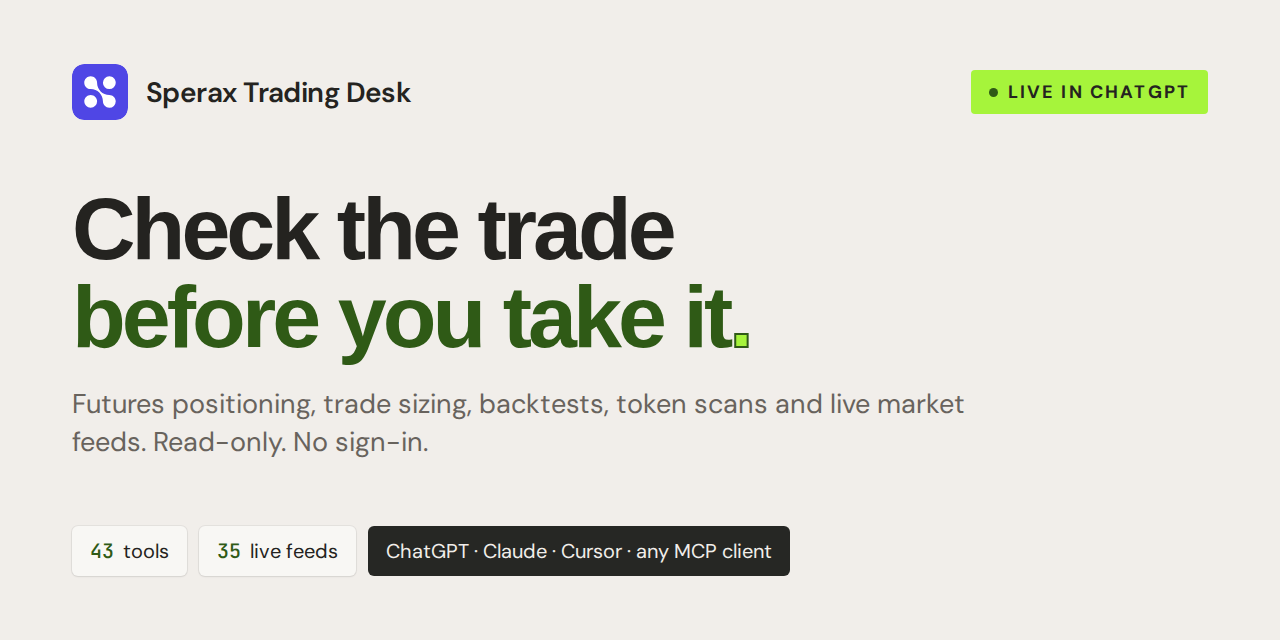
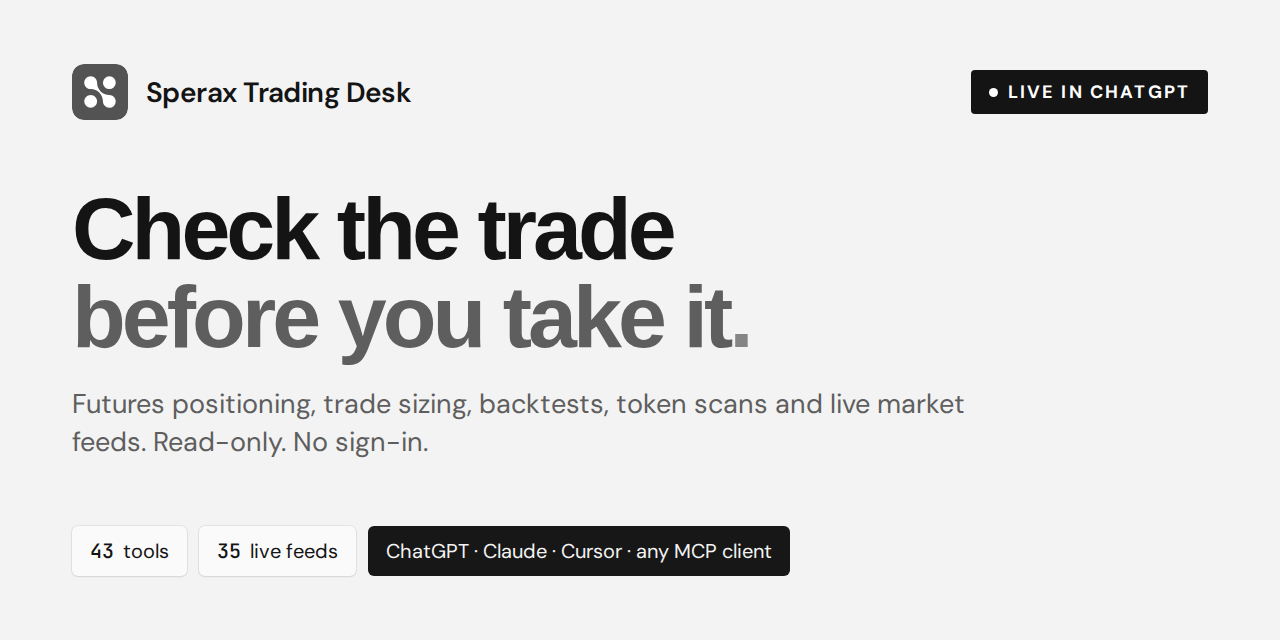
💄 style: switch the site to a monochrome palette
Replace the warm paper, green and lime tokens with a neutral gray scale,
render the hero panel as a charcoal gradient, desaturate the launch video
and brand marks, and regenerate the social cards in grayscale.

diff --git a/site/styles.css b/site/styles.css
@@ -25,28 +25,28 @@
 }
 
 :root {
-  --paper: #f1eeea;
-  --ink: #242320;
-  --ink-2: #3b3934;
-  --muted: #68635d;
-  --faint: #8d877f;
-  --line: #dcd7cf;
-  --line-soft: #e6e1da;
-  --lime: #a6f43b;
-  --lime-hover: #b6f75e;
-  --green: #2f5a16;
-  --green-2: #3a6b1a;
-  --panel: #e7e3dd;
-  --beige: #e5dfd3;
-  --green-tint: #e6ebdc;
-  --green-line: #d5dec6;
-  --card: #f8f7f4;
-  --card-2: #faf9f6;
-  --dark: #262724;
-  --lavender: #dcd6f7;
-  --red: #a4361f;
-  --shadow: 0 1px 2px rgb(36 35 32 / 6%), 0 8px 24px -12px rgb(36 35 32 / 18%);
-  --shadow-lift: 0 2px 4px rgb(36 35 32 / 6%), 0 18px 40px -18px rgb(36 35 32 / 30%);
+  --paper: #f3f3f3;
+  --ink: #141414;
+  --ink-2: #2e2e2e;
+  --muted: #5e5e5e;
+  --faint: #858585;
+  --line: #d8d8d8;
+  --line-soft: #e4e4e4;
+  --lime: #d6d6d6;
+  --lime-hover: #e2e2e2;
+  --green: #141414;
+  --green-2: #2e2e2e;
+  --panel: #e6e6e6;
+  --beige: #e1e1e1;
+  --green-tint: #eaeaea;
+  --green-line: #d4d4d4;
+  --card: #fafafa;
+  --card-2: #fcfcfc;
+  --dark: #171717;
+  --lavender: #c4c4c4;
+  --red: #141414;
+  --shadow: 0 1px 2px rgb(20 20 20 / 6%), 0 8px 24px -12px rgb(20 20 20 / 18%);
+  --shadow-lift: 0 2px 4px rgb(20 20 20 / 6%), 0 18px 40px -18px rgb(20 20 20 / 30%);
   --radius: 6px;
   --gutter: 56px;
   --sans: 'DM Sans', ui-sans-serif, system-ui, -apple-system, 'Segoe UI', Roboto, Arial, sans-serif;
@@ -110,7 +110,7 @@ pre {
 p code {
   padding: 1px 5px;
   border-radius: 3px;
-  background: rgb(36 35 32 / 6%);
+  background: rgb(20 20 20 / 6%);
   overflow-wrap: anywhere;
 }
 
@@ -167,17 +167,22 @@ ol {
 }
 
 ::selection {
-  background: var(--lime);
-  color: var(--ink);
+  background: var(--ink);
+  color: #fff;
 }
 
 .ic {
   flex: none;
 }
 
+.brand img,
+.card-id img,
+.facts img {
+  filter: grayscale(1);
+}
+
 .dot {
-  color: var(--lime);
-  -webkit-text-stroke: 0.6px var(--green);
+  color: var(--faint);
 }
 
 .wrap {
@@ -294,12 +299,12 @@ ol {
 }
 
 .btn-lime {
-  background: var(--lime);
-  color: var(--ink);
+  background: var(--ink);
+  color: #fff;
 }
 
 .btn-lime:hover {
-  background: var(--lime-hover);
+  background: var(--ink-2);
 }
 
 .btn-ink {
@@ -308,7 +313,7 @@ ol {
 }
 
 .btn-ink:hover {
-  background: #3a3934;
+  background: var(--ink-2);
 }
 
 .btn-white {
@@ -416,9 +421,9 @@ ol {
   overflow: hidden;
   border-radius: var(--radius);
   background:
-    radial-gradient(90% 120% at 100% 0%, rgb(166 244 59 / 18%) 0%, transparent 55%),
-    radial-gradient(70% 90% at 0% 100%, rgb(58 107 26 / 55%) 0%, transparent 60%),
-    linear-gradient(160deg, #233f12 0%, #1a2b10 55%, #161f10 100%);
+    radial-gradient(90% 120% at 100% 0%, rgb(255 255 255 / 10%) 0%, transparent 55%),
+    radial-gradient(70% 90% at 0% 100%, rgb(255 255 255 / 5%) 0%, transparent 60%),
+    linear-gradient(160deg, #262626 0%, #171717 55%, #0d0d0d 100%);
   color: #fff;
 }
 
@@ -457,8 +462,8 @@ ol {
   width: 8px;
   height: 8px;
   border-radius: 50%;
-  background: var(--lime);
-  box-shadow: 0 0 0 4px rgb(166 244 59 / 22%);
+  background: #fff;
+  box-shadow: 0 0 0 4px rgb(255 255 255 / 18%);
 }
 
 .hero-intro a:hover {
@@ -471,7 +476,7 @@ ol {
 }
 
 .hero .dot {
-  -webkit-text-stroke: 0;
+  color: rgb(255 255 255 / 45%);
 }
 
 .hero .lead {
@@ -479,11 +484,12 @@ ol {
 }
 
 .hero-media video {
+  filter: grayscale(1);
   width: 100%;
   height: auto;
   aspect-ratio: 16 / 9;
   border-radius: var(--radius);
-  background: #10180b;
+  background: #0a0a0a;
   box-shadow: 0 30px 60px -30px rgb(0 0 0 / 70%), 0 0 0 1px rgb(255 255 255 / 10%);
   object-fit: cover;
 }
@@ -611,8 +617,8 @@ ol {
 }
 
 .tile-2 {
-  background: var(--green);
-  color: var(--lime);
+  background: #5e5e5e;
+  color: #fff;
 }
 
 .tile-3 {
@@ -621,8 +627,9 @@ ol {
 }
 
 .tile-4 {
-  background: var(--lavender);
-  color: #3c2f86;
+  background: var(--card);
+  color: var(--ink);
+  box-shadow: inset 0 0 0 1px var(--line);
 }
 
 /* Section heads */
@@ -713,7 +720,7 @@ ol {
   gap: 12px;
   padding: 11px 11px;
   border-radius: 2px;
-  background: #eeece8;
+  background: #ededed;
   font-size: 12px;
 }
 
@@ -1122,15 +1129,15 @@ ol {
 }
 
 .seg-1 {
-  background: var(--green);
+  background: var(--ink);
 }
 
 .seg-2 {
-  background: var(--lime);
+  background: #8a8a8a;
 }
 
 .seg-3 {
-  background: var(--ink);
+  background: #c8c8c8;
 }
 
 .legend {
@@ -1167,7 +1174,7 @@ ol {
   position: relative;
   border-radius: 4px;
   background: var(--dark);
-  color: #e9e6df;
+  color: #e8e8e8;
 }
 
 .code pre {
@@ -1186,7 +1193,7 @@ ol {
   border: 1px solid rgb(255 255 255 / 18%);
   border-radius: 3px;
   background: var(--dark);
-  color: #e9e6df;
+  color: #e8e8e8;
   font-family: var(--sans);
   font-size: 11px;
   cursor: pointer;
@@ -1197,18 +1204,19 @@ ol {
 
 .copy:hover {
   border-color: rgb(255 255 255 / 45%);
-  background: #33342f;
+  background: #2e2e2e;
 }
 
 .copy[data-state='done'] {
-  border-color: var(--lime);
-  background: var(--lime);
+  border-color: #fff;
+  background: #fff;
   color: var(--ink);
 }
 
 .copy[data-state='error'] {
-  border-color: #e9866f;
-  color: #f5b7a8;
+  border-color: rgb(255 255 255 / 70%);
+  color: #fff;
+  text-decoration: underline;
 }
 
 /* Safety */
@@ -1238,7 +1246,7 @@ ol {
 }
 
 .frame-beige {
-  background: linear-gradient(180deg, #e8e4da 0%, var(--beige) 100%);
+  background: linear-gradient(180deg, #ebebeb 0%, var(--beige) 100%);
 }
 
 .card-flush {
@@ -1859,7 +1867,7 @@ ol {
 }
 
 .tool:target {
-  box-shadow: 0 0 0 2px var(--lime), var(--shadow-lift);
+  box-shadow: 0 0 0 2px var(--ink), var(--shadow-lift);
 }
 
 .tool header {
